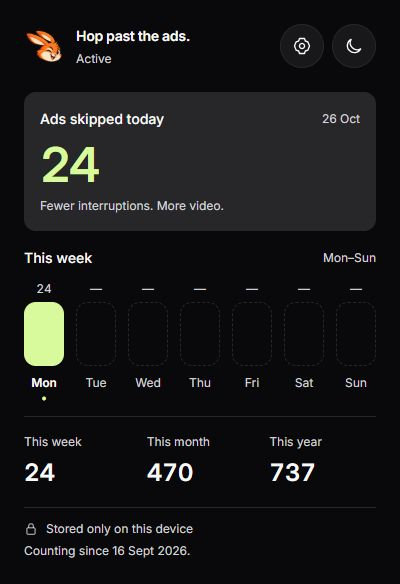
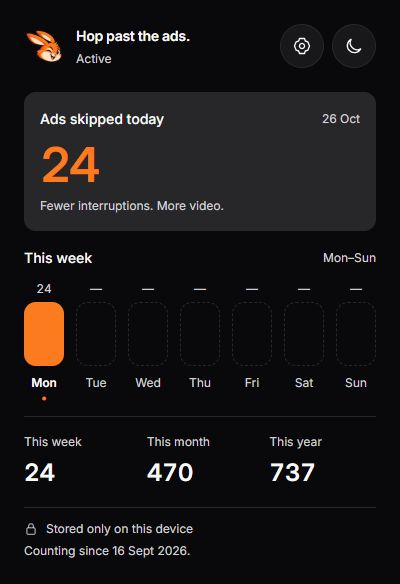
Match popup accents to orange rabbit

Changed region(s): [[0.06, 0.4932, 0.18, 0.6473], [0.09, 0.2466, 0.27, 0.339], [0.09, 0.6781, 0.12, 0.7089]]

diff --git a/popup.css b/popup.css
@@ -1,4 +1,4 @@
 *{box-sizing:border-box}body{margin:0;background:var(--background);color:var(--foreground);font-family:var(--font-sans);font-size:var(--text-body);line-height:1.5}button{font:inherit}button:focus-visible{outline:2px solid var(--ring);outline-offset:2px}[hidden]{display:none!important}h1,h2,p{margin:0}.popup{width:calc(var(--spacing)*100);padding:calc(var(--spacing)*6)}.header,.brand,.section-top{display:flex;align-items:center;justify-content:space-between}.header{gap:calc(var(--spacing)*3);padding-bottom:calc(var(--spacing)*6)}.brand{justify-content:flex-start;gap:calc(var(--spacing)*3)}.brand img{border-radius:var(--radius-lg)}h1{font-size:var(--text-body);font-weight:600;letter-spacing:-.02em}.brand p,.muted,footer,.totals p{color:var(--muted-foreground);font-size:var(--text-small)}.brand p{margin-top:var(--spacing)}.icon-button{width:calc(var(--spacing)*11);height:calc(var(--spacing)*11);flex-shrink:0;display:grid;place-items:center;border:1px solid var(--border);border-radius:var(--radius-pill);background:var(--card);color:var(--foreground);cursor:pointer;transition:background var(--duration-fast),transform var(--duration-normal) var(--ease-enter)}button:hover{background:var(--accent)}button:active{transform:scale(.96);transition-duration:var(--duration-tick)}h2{font-size:var(--text-body);font-weight:500}.today{padding:calc(var(--spacing)*4);background:var(--muted);border-radius:var(--radius-lg)}.today .section-top{gap:var(--spacing)}.today-count{font-size:var(--text-number-xl);line-height:var(--leading-number-xl);font-weight:600;font-variant-numeric:tabular-nums;letter-spacing:-.04em;color:var(--value-ink);margin:calc(var(--spacing)*3) 0 calc(var(--spacing)*2);overflow-wrap:anywhere}.week-section{margin-top:calc(var(--spacing)*4)}.chart{display:grid;grid-template-columns:repeat(7,minmax(0,1fr));gap:calc(var(--spacing)*3);margin-top:calc(var(--spacing)*3)}.day{min-width:0;text-align:center}.bar-space{height:calc(var(--spacing)*16);display:flex;align-items:flex-end;position:relative}.bar-space::before{content:"";position:absolute;inset:0;border-radius:var(--radius-lg);background:var(--muted)}.bar{height:100%;width:100%;background:var(--value-ink);border-radius:var(--radius-lg);transform:scaleY(0);transform-origin:bottom;transition:transform var(--duration-slow) var(--ease-enter);position:relative}.day-count{display:block;font-size:var(--text-small);color:var(--muted-foreground);margin-bottom:var(--spacing);font-variant-numeric:tabular-nums}.day-label{display:block;margin-top:calc(var(--spacing)*2);font-size:var(--text-small);color:var(--muted-foreground)}.day.is-today .day-label{font-weight:600;color:var(--foreground)}.day.is-today .day-label::after{content:"•";display:block;line-height:var(--spacing);margin-top:var(--spacing);color:var(--value-ink)}.day.is-future .bar-space::before{background:none;border:1px dashed var(--border)}.totals{display:grid;grid-template-columns:repeat(3,minmax(0,1fr));gap:calc(var(--spacing)*4);padding-top:calc(var(--spacing)*4);margin-top:calc(var(--spacing)*4);border-top:1px solid var(--border)}.totals strong{display:block;font-size:var(--text-number-md);font-weight:600;font-variant-numeric:tabular-nums;margin-top:var(--spacing);overflow-wrap:anywhere}.error{display:flex;align-items:center;justify-content:space-between;gap:calc(var(--spacing)*2);padding:calc(var(--spacing)*3);border:1px solid var(--border);border-radius:var(--radius-lg);margin-top:calc(var(--spacing)*4);font-size:var(--text-small)}.error button{border:1px solid var(--border);border-radius:var(--radius-pill);padding:calc(var(--spacing)*2) calc(var(--spacing)*4);color:var(--action-ink);background:var(--card);font-size:var(--text-small);font-weight:500;cursor:pointer;min-height:calc(var(--spacing)*11)}.error button:disabled{cursor:wait;color:var(--muted-foreground)}footer{padding-top:calc(var(--spacing)*3);margin-top:calc(var(--spacing)*4);border-top:1px solid var(--border)}footer p:first-child{display:flex;align-items:center;gap:calc(var(--spacing)*2)}footer p+p{margin-top:var(--spacing)}.sr-only{position:absolute;width:1px;height:1px;padding:0;margin:-1px;overflow:hidden;clip:rect(0,0,0,0);white-space:nowrap;border:0}.popup[aria-busy=true] .today-count{color:var(--muted-foreground)}@media(prefers-reduced-motion:reduce){*,*::before,*::after{animation:none!important;transition:none!important}button:active{transform:none}}
 .popup[data-failed=initial] .week-section,.popup[data-failed=initial] .totals{display:none}.popup[data-failed=stale] .week-section{margin-top:calc(var(--spacing)*3)}.popup[data-failed=stale] .bar-space{height:calc(var(--spacing)*6)}.popup[data-failed=stale] .chart{margin-top:calc(var(--spacing)*2)}.popup[data-failed=stale] .error{margin-top:calc(var(--spacing)*3);padding:calc(var(--spacing)*2)}.popup[data-failed=stale] .totals{margin-top:calc(var(--spacing)*3);padding-top:calc(var(--spacing)*3)}.popup[data-failed=stale] footer{margin-top:calc(var(--spacing)*3);padding-top:calc(var(--spacing)*2)}
-.header-controls{display:flex;align-items:center;gap:calc(var(--spacing)*2);flex-shrink:0}.brand{min-width:0}.brand h1{white-space:nowrap}.brand #activity-status{font-size:var(--text-small)}.setting-row{display:flex;align-items:center;justify-content:space-between;gap:calc(var(--spacing)*4);padding:calc(var(--spacing)*4) 0;border-bottom:1px solid var(--border)}.setting-master{padding:calc(var(--spacing)*4);border:0;border-radius:var(--radius-lg);background:var(--muted)}.setting-copy{min-width:0}.setting-copy h2{display:flex;align-items:center;gap:calc(var(--spacing)*2);font-size:var(--text-body);font-weight:500}.setting-copy p,.settings-intro p,.settings-feedback{color:var(--muted-foreground);font-size:var(--text-small);margin-top:calc(var(--spacing)*2)}.settings-intro{margin-top:calc(var(--spacing)*6)}.settings-intro h2{font-weight:600}.switch{min-width:calc(var(--spacing)*12);min-height:calc(var(--spacing)*11);padding:0;flex-shrink:0;background:none;border:0;border-radius:var(--radius-pill);display:grid;place-items:center;cursor:pointer}.switch-track{width:calc(var(--spacing)*11);height:calc(var(--spacing)*6);padding:var(--spacing);display:block;border:1px solid var(--muted-foreground);border-radius:var(--radius-pill);background:var(--background);transition:background var(--duration-fast),border-color var(--duration-fast)}.switch-track>span{display:block;width:calc(var(--spacing)*4);height:calc(var(--spacing)*4);border-radius:var(--radius-pill);background:var(--muted-foreground);transition:transform var(--duration-normal) var(--ease-enter),background var(--duration-fast);position:relative;top:-1px;left:-1px}.switch[aria-checked=true] .switch-track{background:var(--action-ink);border-color:var(--action-ink)}.switch[aria-checked=true] .switch-track>span{transform:translateX(calc(var(--spacing)*5));background:var(--background)}.switch:disabled{cursor:wait;opacity:.55}.settings-feedback{margin-top:calc(var(--spacing)*5);min-height:calc(var(--spacing)*9)}#settings-view .error button{white-space:nowrap}
+.header-controls{display:flex;align-items:center;gap:calc(var(--spacing)*2);flex-shrink:0}.brand{min-width:0}.brand h1{white-space:nowrap}.brand #activity-status{font-size:var(--text-small)}.setting-row{display:flex;align-items:center;justify-content:space-between;gap:calc(var(--spacing)*4);padding:calc(var(--spacing)*4) 0;border-bottom:1px solid var(--border)}.setting-master{padding:calc(var(--spacing)*4);border:0;border-radius:var(--radius-lg);background:var(--muted)}.setting-copy{min-width:0}.setting-copy h2{display:flex;align-items:center;gap:calc(var(--spacing)*2);font-size:var(--text-body);font-weight:500}.setting-copy p,.settings-intro p,.settings-feedback{color:var(--muted-foreground);font-size:var(--text-small);margin-top:calc(var(--spacing)*2)}.settings-intro{margin-top:calc(var(--spacing)*6)}.settings-intro h2{font-weight:600}.switch{min-width:calc(var(--spacing)*12);min-height:calc(var(--spacing)*11);padding:0;flex-shrink:0;background:none;border:0;border-radius:var(--radius-pill);display:grid;place-items:center;cursor:pointer}.switch-track{width:calc(var(--spacing)*11);height:calc(var(--spacing)*6);padding:var(--spacing);display:block;border:1px solid var(--muted-foreground);border-radius:var(--radius-pill);background:var(--background);transition:background var(--duration-fast),border-color var(--duration-fast)}.switch-track>span{display:block;width:calc(var(--spacing)*4);height:calc(var(--spacing)*4);border-radius:var(--radius-pill);background:var(--muted-foreground);transition:transform var(--duration-normal) var(--ease-enter),background var(--duration-fast);position:relative;top:-1px;left:-1px}.switch[aria-checked=true] .switch-track{background:var(--action-fill);border-color:var(--action-ink)}.switch[aria-checked=true] .switch-track>span{transform:translateX(calc(var(--spacing)*5));background:var(--background)}.switch:disabled{cursor:wait;opacity:.55}.settings-feedback{margin-top:calc(var(--spacing)*5);min-height:calc(var(--spacing)*9)}#settings-view .error button{white-space:nowrap}
 #settings-view .error{margin-top:calc(var(--spacing)*2)}

diff --git a/styles/tokens.css b/styles/tokens.css
@@ -1,4 +1,4 @@
-/* Required values from Elattar styles/tokens.css and motion.css; plain-CSS MV3 port. */
+/* Plain-CSS MV3 tokens. Rabbit orange #fc7b1e is the user-requested brand accent; darker ink preserves light-theme text contrast. */
 @font-face{font-family:Inter;src:url('../fonts/inter-variable.woff2') format('woff2');font-weight:100 900;font-display:swap}
 :root{
  --spacing:4px;--radius-lg:12px;--radius-pill:999px;
@@ -6,7 +6,7 @@
  --text-h4:1.25rem;--text-body:.875rem;--text-small:.75rem;--text-number-xl:3rem;--leading-number-xl:3rem;--text-number-md:1.5rem;
  --duration-tick:80ms;--duration-fast:150ms;--duration-normal:250ms;--duration-slow:400ms;--ease-enter:cubic-bezier(.22,1,.36,1);
  --background:hsl(0 0% 100%);--foreground:hsl(240 10% 3.9%);--card:hsl(0 0% 100%);--muted:hsl(240 4.8% 95.9%);--muted-foreground:hsl(240 4% 40%);--accent:hsl(240 4.8% 95.9%);--border:hsl(240 5.9% 90%);
- --value-ink:#4d7c0f;--action-ink:hsl(224 76% 33%);--ring:hsl(217 91% 53%);--success-ink:#047857;
+ --value-ink:#a64200;--action-ink:#a64200;--action-fill:#fc7b1e;--ring:#a64200;--success-ink:#047857;
  color-scheme:light;
 }
-:root[data-theme=dark]{--background:hsl(240 10% 3.9%);--foreground:hsl(0 0% 98%);--card:hsl(240 5.9% 10%);--muted:hsl(240 3.7% 15.9%);--muted-foreground:hsl(240 4.9% 83.9%);--accent:hsl(240 5.3% 26.1%);--border:hsl(240 3.7% 15.9%);--value-ink:#d9f99d;--action-ink:hsl(213 94% 78%);--ring:hsl(213 94% 78%);--success-ink:#10b981;color-scheme:dark}
+:root[data-theme=dark]{--background:hsl(240 10% 3.9%);--foreground:hsl(0 0% 98%);--card:hsl(240 5.9% 10%);--muted:hsl(240 3.7% 15.9%);--muted-foreground:hsl(240 4.9% 83.9%);--accent:hsl(240 5.3% 26.1%);--border:hsl(240 3.7% 15.9%);--value-ink:#fc7b1e;--action-ink:#fc7b1e;--action-fill:#fc7b1e;--ring:#fc7b1e;--success-ink:#10b981;color-scheme:dark}

diff --git a/INSTALL.md b/INSTALL.md
@@ -1,6 +1,6 @@
-# YouTube Skip Button Clicker — version 1.3.0
+# YouTube Skip Button Clicker — version 1.3.1
 
-Version 1.3.0 adds master activation and independent action settings. Open the
+Version 1.3.1 adds master activation and independent action settings. Open the
 rabbit popup, then the Settings gear. **Automatic ad skipping** pauses/resumes
 both actions without losing your preferences. **Jump ads to the end** and
 **Click Skip buttons** can each be switched off separately. Preferences are
@@ -62,7 +62,7 @@ seeked. When seeking is unavailable, it keeps looking for a Skip button.
 1. Extract the new ZIP.
 2. Replace the files in the SAME folder previously selected with Load unpacked.
 3. Open chrome://extensions and click Reload on YouTube Skip Button Clicker.
-4. Confirm the version is 1.3.0. Allow the storage permission if Chrome asks.
+4. Confirm the version is 1.3.1. Allow the storage permission if Chrome asks.
 5. Close YouTube Developer Tools and reload YouTube.
 
 Keep the old Tampermonkey auto-skip script disabled. Do not load a second copy
